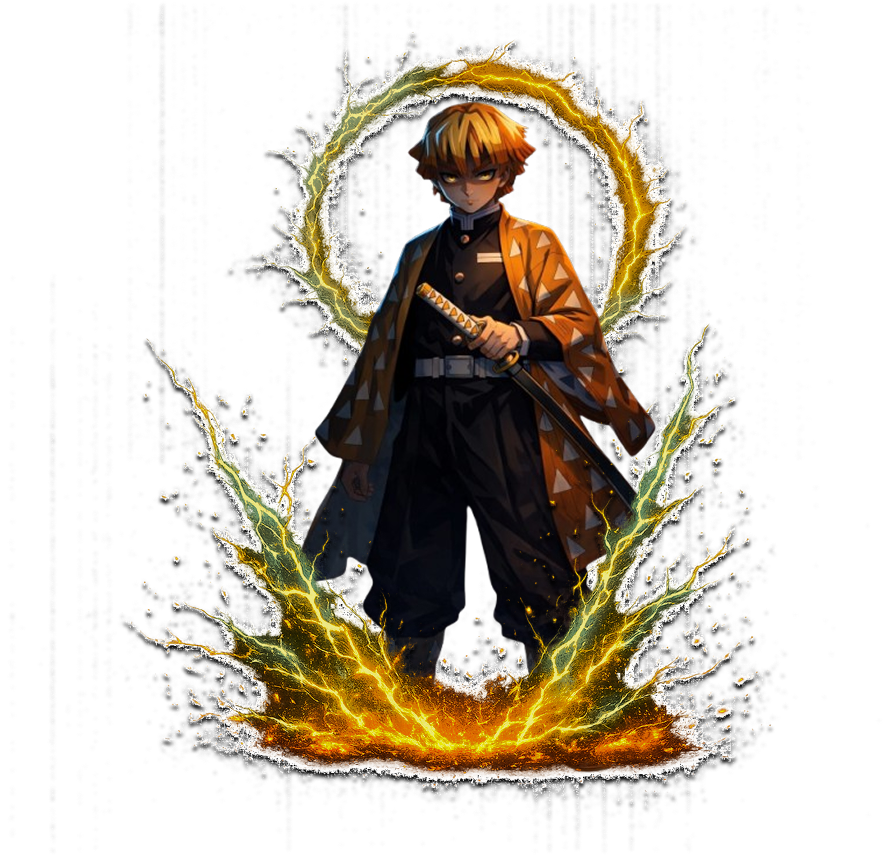
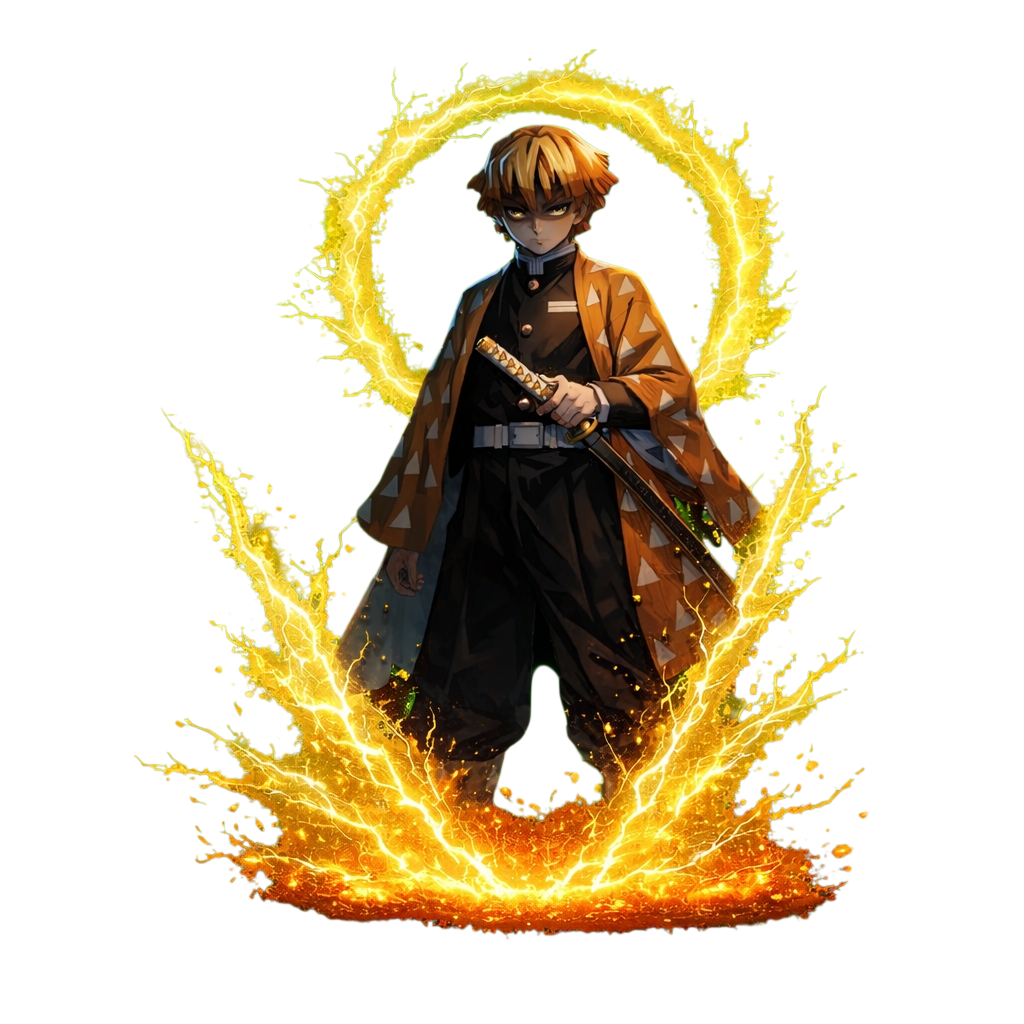
estrutura da descrição do personagem

Changed region(s): [[0.1212, 0.0303, 0.8485, 0.9383], [0.1515, 0.3935, 0.1818, 0.4237]]

diff --git a/index.html b/index.html
@@ -75,7 +75,26 @@
                     <img src="img/zenitsu10.png" loading="lazy" width="818" height="460" alt="Zenitsu">
                 </div>
             </div>
+        </div>
 
+        <div class="info">
+            <div class=" esquerda">
+                <span>ZENITSU</span>
+                <P class="subTitulo">Hidden fury</P>
+                <p class="descricao">Zenitsu Hidden Fury representa o poder oculto por
+                    trás do silêncio. Entre sombras e relâmpagos, ele
+                    canaliza sua força em um único instante decisivo. Uma
+                    presença calma à primeira vista, mas devastadora
+                    quando desperta — onde a velocidade, a precisão e a
+                    fúria do trovão se tornam uma só.</p>
+                <div class="GIF">
+                   <img src="img/26630c81da261f767fa942a65720781c.gif" loading="lazy" width="818" height="460" alt="Zenitsu">
+                </div>
+            </div>
+
+            <div class="direita">
+                <img src="img/zenitsu img.png" loading="lazy" width="818" height="460" alt="Zenitsu">
+            </div>
 
         </div>
 

diff --git a/style.css b/style.css
@@ -312,9 +312,99 @@ body {
     .fotosDois {
         height: 10em;
     }
+}
 
+.info{
+    background: radial-gradient( circle,#080C16 10%, #06050C 90%);
+    width: 100%;
+    height: 100%;
+    display: flex;
+    justify-content: space-between;
+}
+
+.esquerda{
+    color: white;
+    display: flex;
+    flex-direction: column;
+}
+
+.esquerda span {
+    display: flex;
+    margin-top: 74px;
+    margin-left: 77px;
+    font-size: 4em;
+}
+
+.subTitulo{
+
+    margin-left: 77px;
+    font-size: 1.5em;
 
 }
+
+.descricao{
+    margin-left: 77px;
+    margin-top: 57px;
+    max-width: 34em;
+    font-size: 1.4em;
+}
+
+.GIF{
+    margin-left: 77px;
+    margin-top: 40px;
+    filter: brightness(0.5);
+}
+
+.GIF img {
+    width: 35em;
+    height: 20em;
+}
+
+.direita img{
+    overflow: hidden;
+    margin-top: 30px;
+    width: 43em;
+    height: 45em;
+  filter:
+    drop-shadow(0 0 18px rgba(255, 215, 0, 0.65))
+    drop-shadow(0 0 45px rgba(255, 180, 0, 0.45))
+    drop-shadow(0 0 90px rgba(255, 140, 0, 0.25));
+}
+
+
+
+
+
+
+
+
+
+
+
+
+
+
+
+
+
+
+
+
+
+
+
+
+
+
+
+
+
+
+
+
+
+
+
 
 
 @media (max-width: 430px) {
